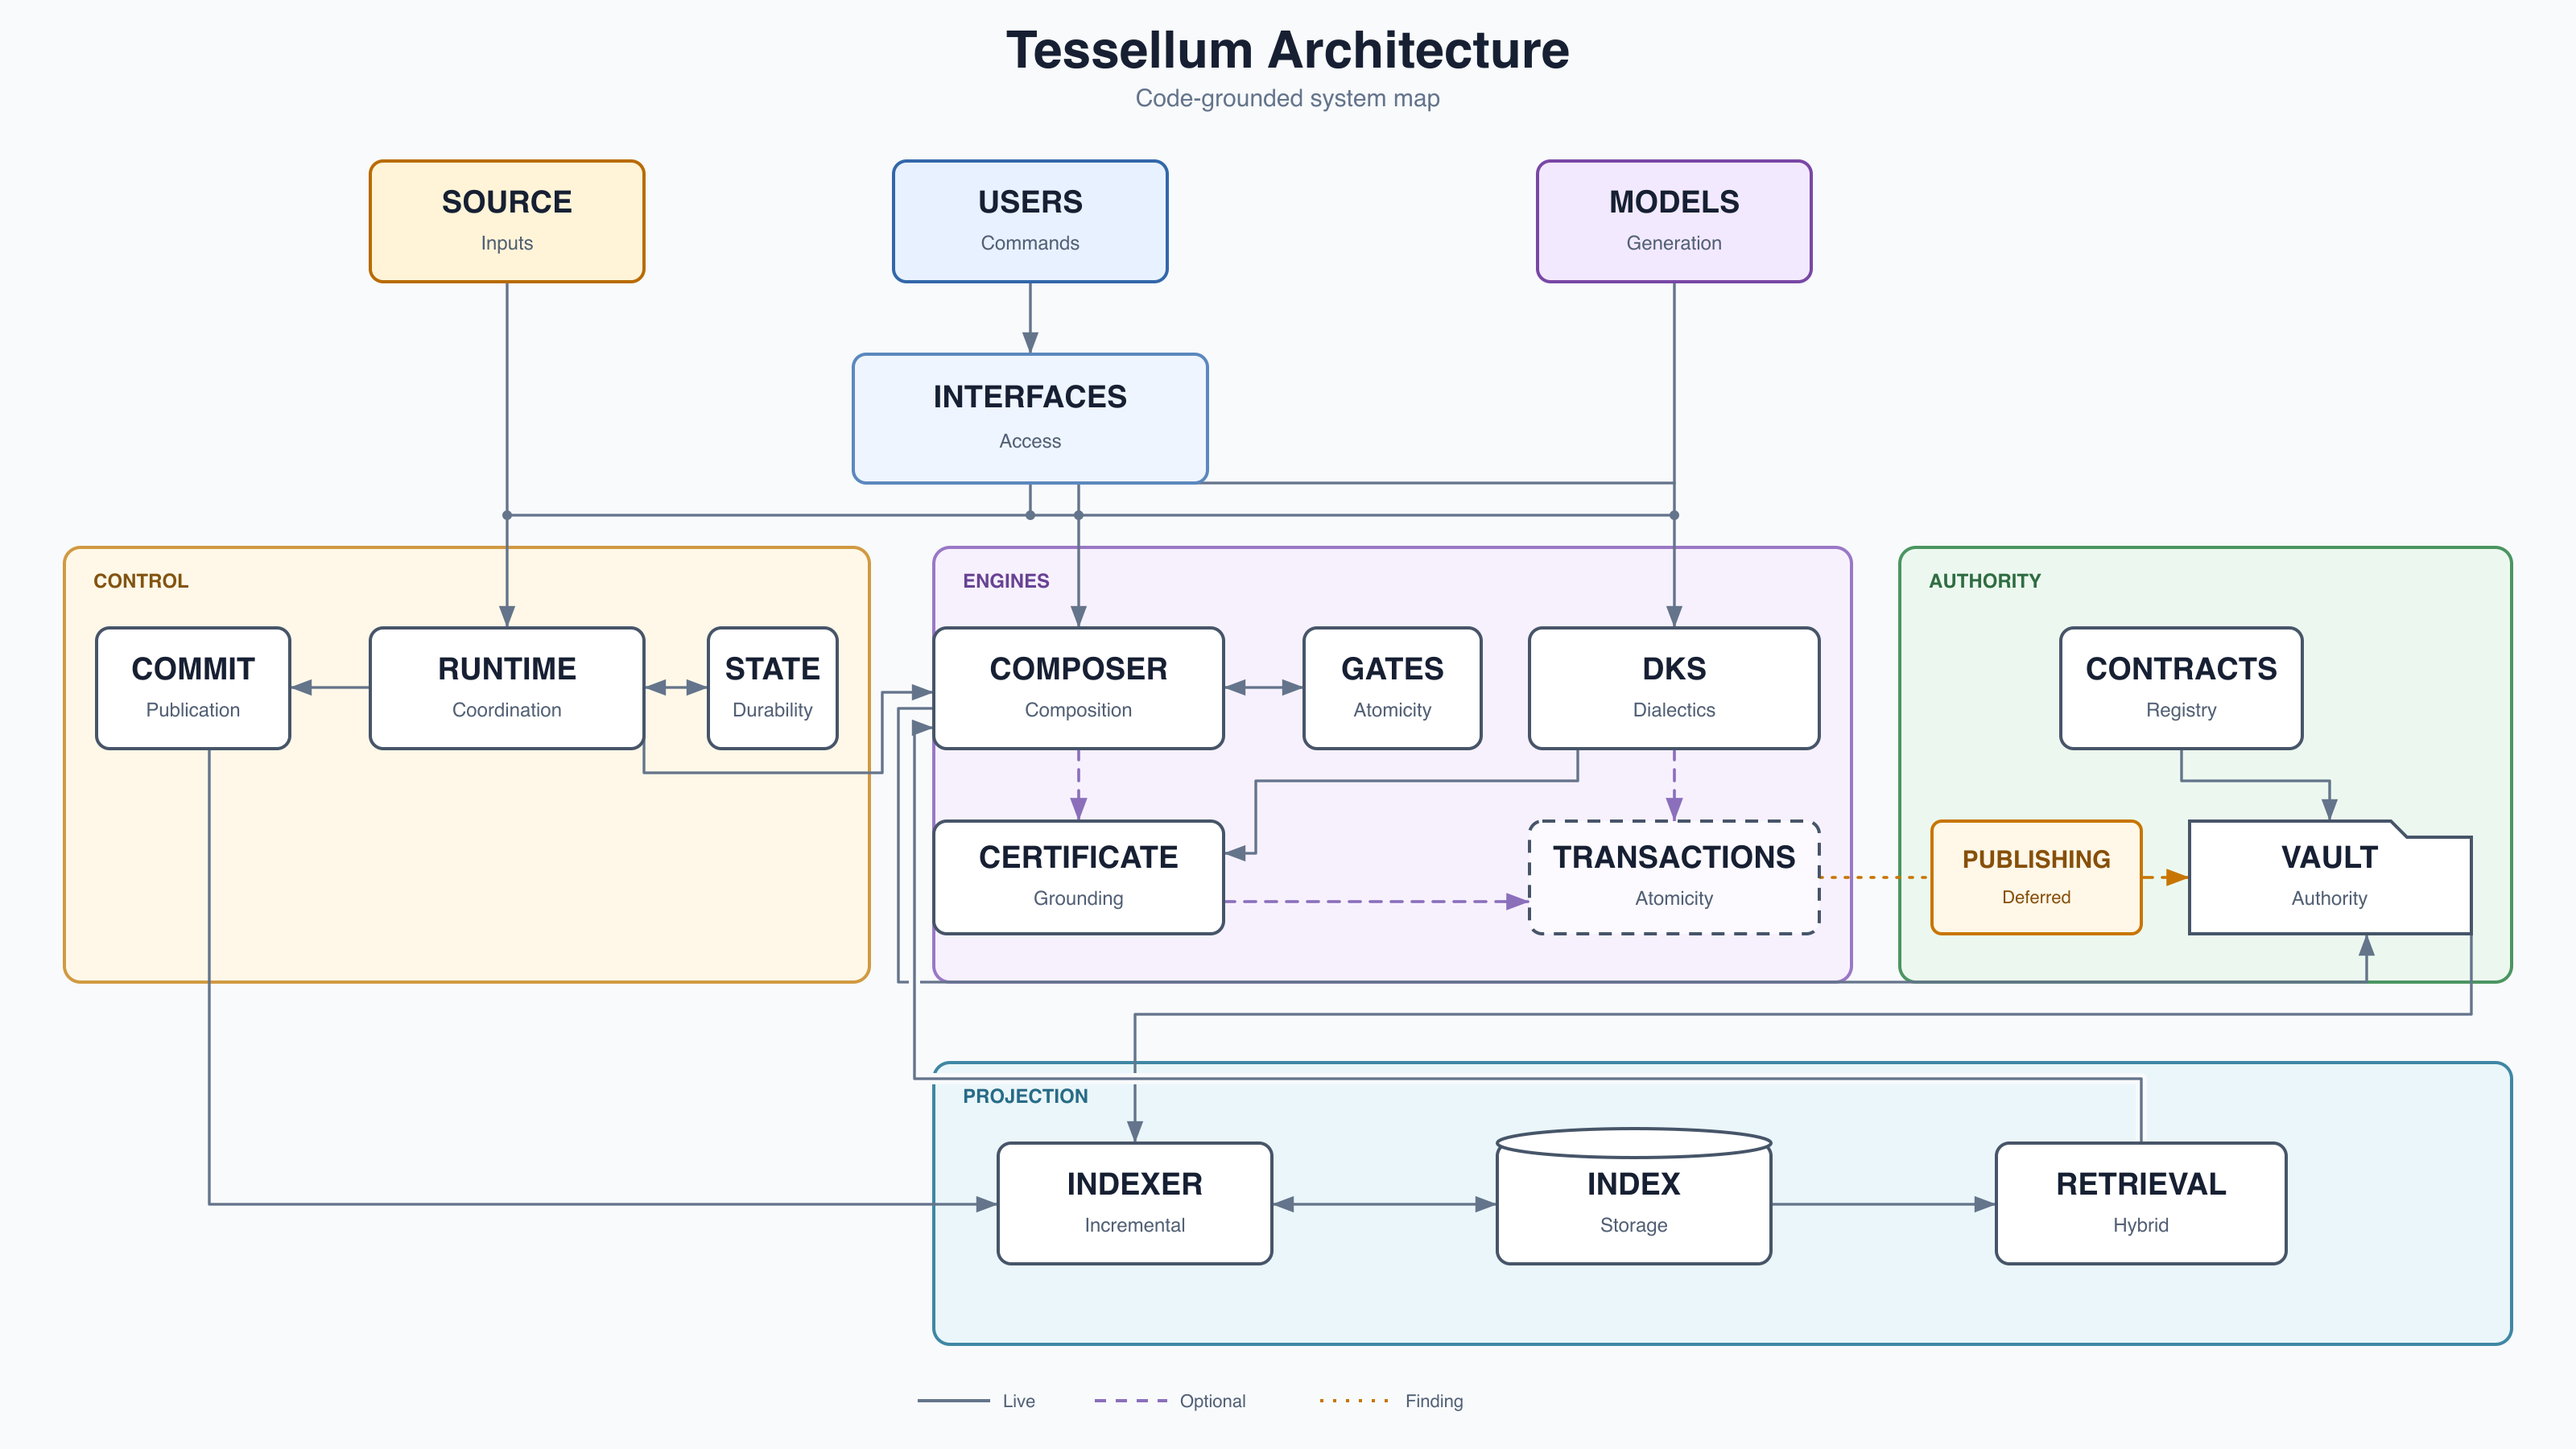
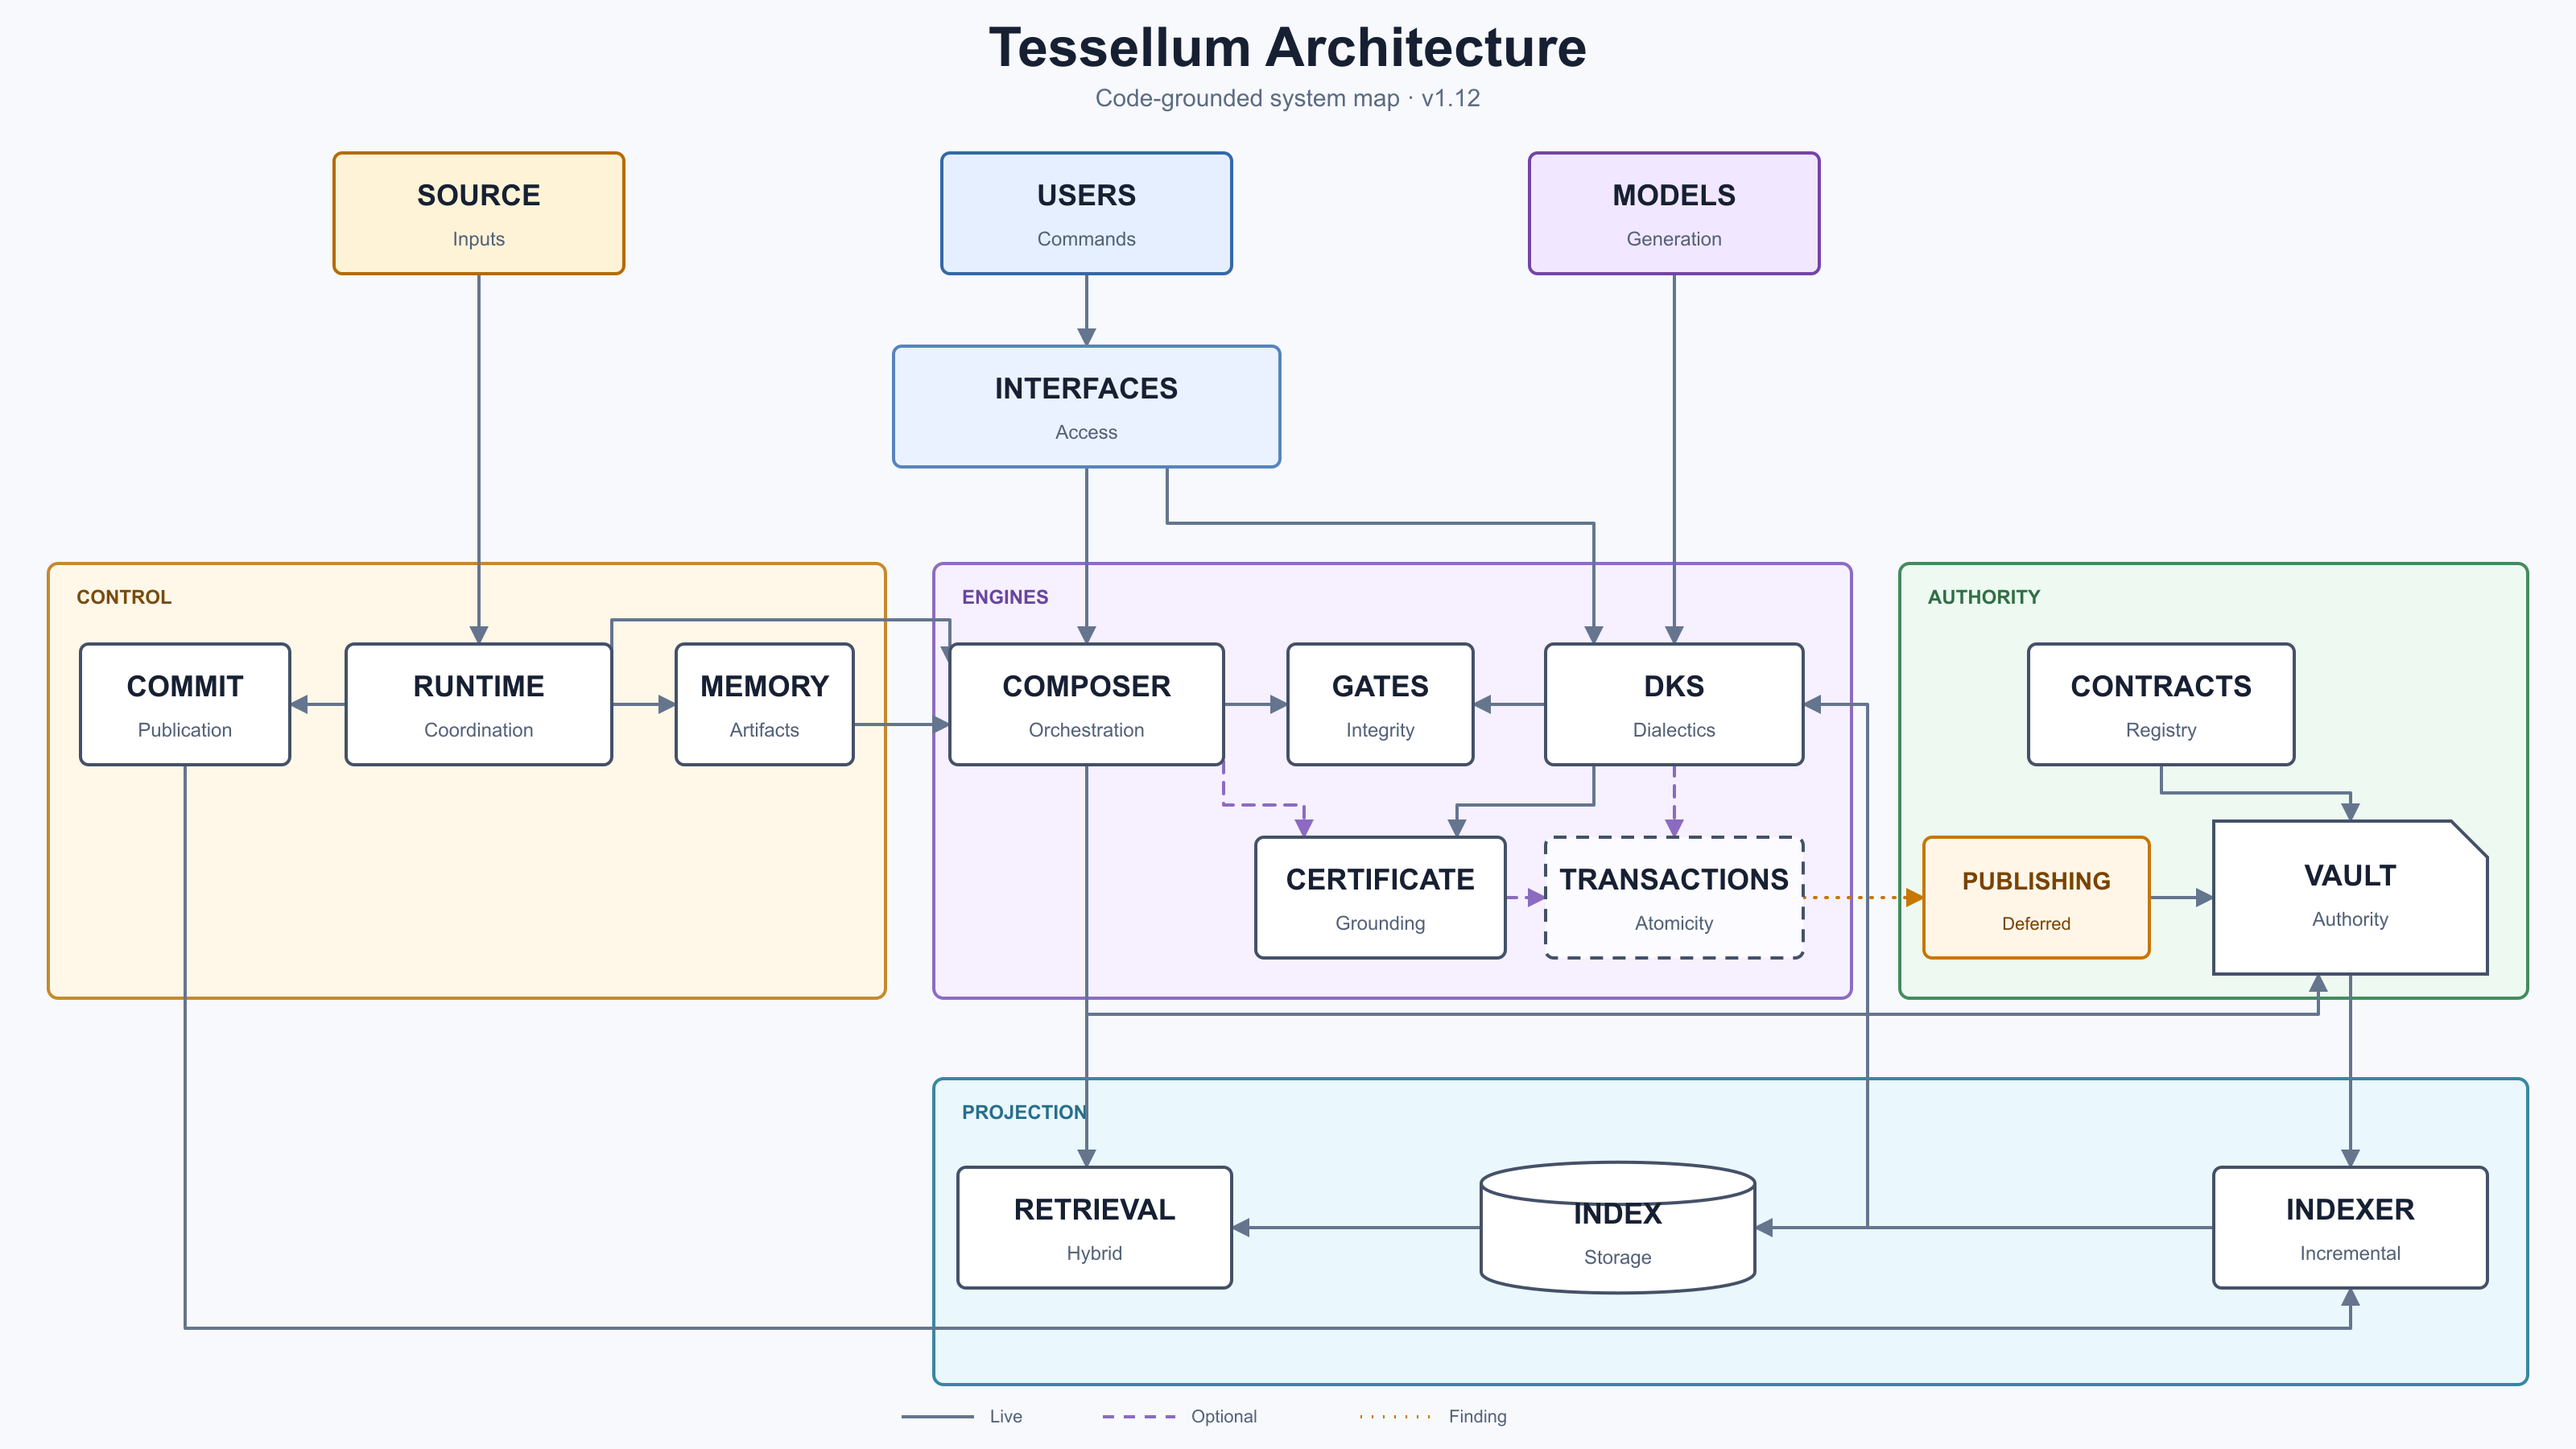
docs: architecture caption + title to 1.12.0; regenerate architecture diagram

diff --git a/README.md b/README.md
@@ -111,7 +111,7 @@ Tessellum rests on four foundations — remove any one and the system stops work
 
 ## Architecture
 
-![Tessellum 1.11.0 architecture showing runtime orchestration, plan atomicity gates, registry-driven note contracts, semantic certification, incremental indexing, hybrid retrieval, and vault publication](docs/assets/tessellum_architecture.png)
+![Tessellum 1.12.0 architecture showing durable Composer artifacts, integrity gates, runtime orchestration, semantic certification, incremental indexing, hybrid retrieval, and vault authority](docs/assets/tessellum_architecture.png)
 
 *Source-level view of Tessellum's write and retrieval paths. Solid arrows are active runtime paths; dashed arrows identify opt-in primitives or integrations that are implemented but not wired into the automatic runtime end to end.*
 

diff --git a/docs/architecture.md b/docs/architecture.md
@@ -1,4 +1,4 @@
-# Tessellum 1.11.0 — System Architecture
+# Tessellum 1.12.0 — System Architecture
 
 ## 1. What Tessellum is
 
